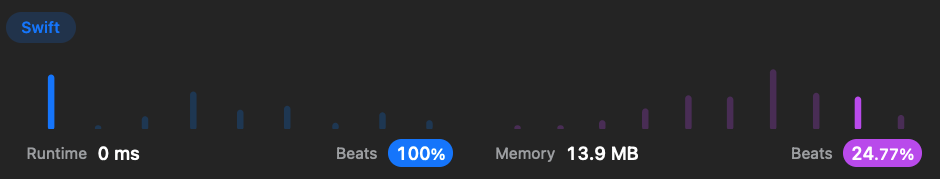
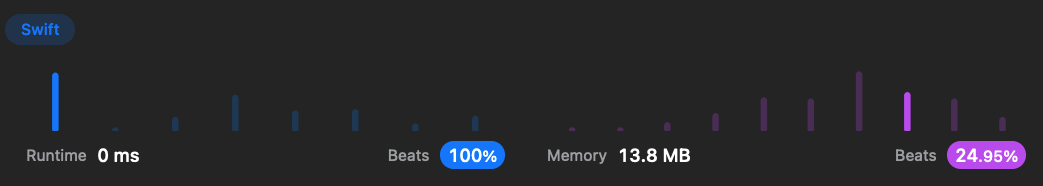
Solved 70

diff --git a/LeetCode.playground/Pages/70. Climbing Stairs.xcplaygroundpage/Contents.swift b/LeetCode.playground/Pages/70. Climbing Stairs.xcplaygroundpage/Contents.swift
@@ -1,10 +1,67 @@
 /*:
- ## Dynamic Programming + Memoization
+ ## Dynamic Programming (Bottom-Up + Space Optimized)
+ ### Time: O(N)
+ ### Space: O(1)
+ ![submission](1.png)
+ */
+class Solution {
+    func climbStairs(_ n: Int) -> Int {
+        if n <= 2 { return n }
+        
+        var prev1 = 2
+        var prev2 = 1
+        
+        for _ in 3...n {
+            let temp = prev1
+            prev1 = prev1 + prev2
+            prev2 = temp
+        }
+        
+        return prev1
+    }
+}
+
+let s = Solution().climbStairs
+
+s(5)
+s(38)
+
+/*:
+ ## Dynamic Programming (Bottom-Up)
+ ### Time: O(N)
+ ### Space: O(N)
+ ![submission](2.png)
+ */
+class Solution2 {
+    func climbStairs(_ n: Int) -> Int {
+        if n <= 2 { return n }
+        
+        var memo = Array(repeating: 0, count: n+1)
+
+        memo[1] = 1
+        memo[2] = 2
+        
+        for i in 3...n {
+            memo[i] = memo[i-1] + memo[i-2]
+        }
+        
+        return memo[n]
+    }
+}
+
+let s2 = Solution2().climbStairs
+
+s2(5)
+s2(38)
+
+
+/*:
+ ## Dynamic Programming (Top-Down)
  ### Time: O(N)
  ### Space: O(N)
  ![submission](1.png)
  */
-class Solution {
+class Solution3 {
     var memo: [Int: Int] = [:]
     
     func climbStairs(_ n: Int) -> Int {
@@ -23,7 +80,7 @@ class Solution {
     }
 }
 
-let s = Solution()
+let s3 = Solution3()
 
-s.climbStairs(5)
-s.climbStairs(38)
+s3.climbStairs(5)
+s3.climbStairs(38)
